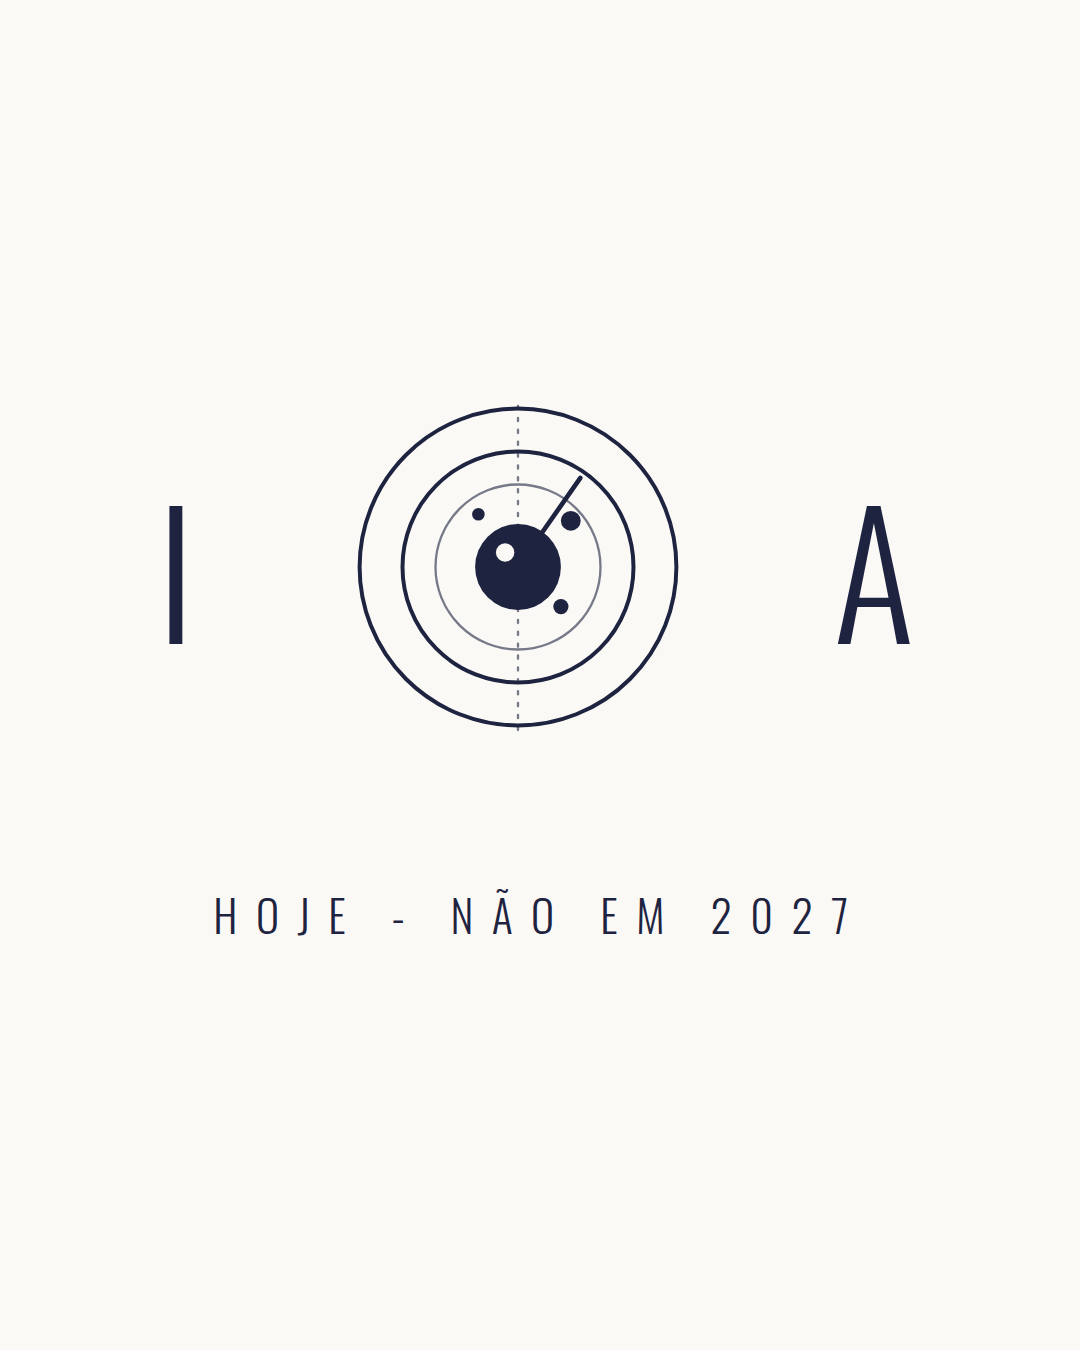
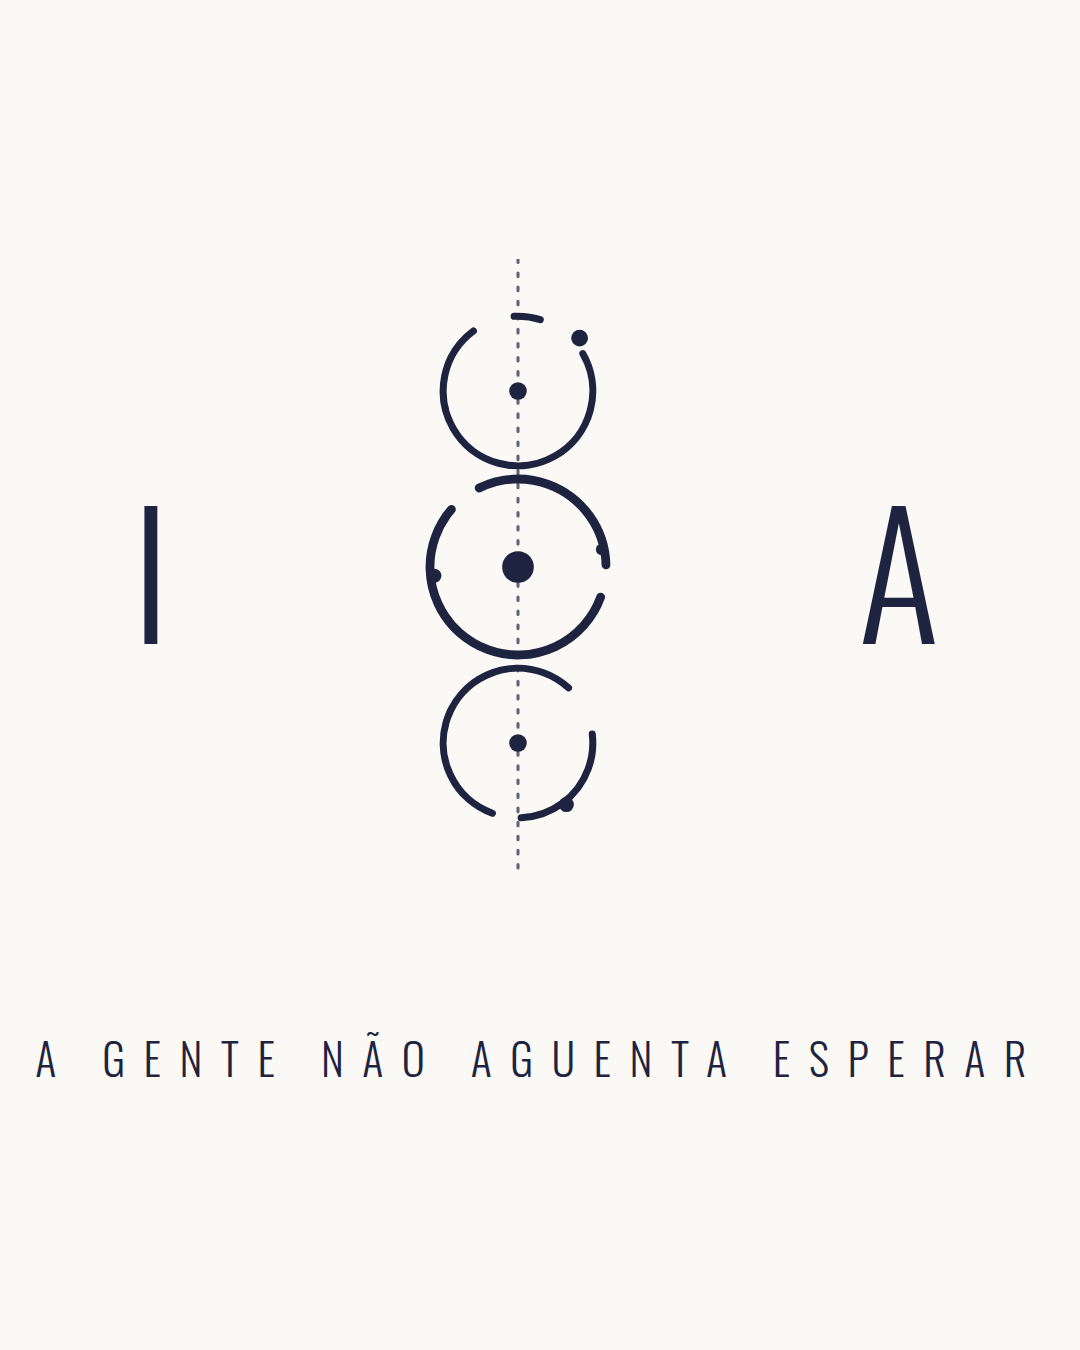
Mistério com símbolo de três círculos e story de revelação novo
Claude-Session: https://claude.ai/code/session_015WqfV53Y8EeDbiaJmrZRa2

diff --git a/docs/story-revelacao.html b/docs/story-revelacao.html
@@ -1,6 +1,6 @@
 <!doctype html>
 <html lang="pt-BR"><head><meta charset="utf-8"><meta name="viewport" content="width=device-width,initial-scale=1">
-<title>Irisa · Mistério</title>
+<title>Irisa · Revelação</title>
 <link rel="stylesheet" href="https://fonts.googleapis.com/css2?family=Urbanist:wght@500;600&family=Oswald:wght@300;400;500;700&family=Space+Grotesk:wght@400;500;700&display=swap">
 <style>
 
@@ -95,7 +95,7 @@ nav.top.solid .mark::before{background:var(--night2)}
 @media(max-width:900px){.split{grid-template-columns:1fr}.split.rev>:first-child{order:0}}
 .split .txt{display:flex;flex-direction:column;gap:22px}
 .showcase{display:flex;justify-content:center;position:relative}
-.showcase .halo-off{position:absolute;width:min(420px,90vw);height:min(420px,90vw);border-radius:50%;filter:blur(60px);opacity:.45;left:50%;top:50%;transform:translate(-50%,-50%);z-index:0}
+.showcase .halo{position:absolute;width:min(420px,90vw);height:min(420px,90vw);border-radius:50%;filter:blur(60px);opacity:.45;left:50%;top:50%;transform:translate(-50%,-50%);z-index:0}
 .showcase .cell{position:relative;z-index:1}
 .showcase .caption{display:none}
 .axes{display:grid;grid-template-columns:1fr 1fr;gap:12px}
@@ -368,10 +368,10 @@ footer .sos-line{width:100%;color:#fff;font-family:var(--display);text-transform
 html,body{margin:0;background:#0d1020}
 body{display:flex;flex-direction:column;align-items:center;gap:40px;padding:40px 0}
 .sl{position:relative;width:1080px;height:1350px;flex:none;overflow:hidden;background:var(--night);color:#fff;font-family:var(--body);display:flex;flex-direction:column;align-items:center}
-.halo-off{position:absolute;inset:-30%;pointer-events:none;filter:blur(60px)}
+.halo{position:absolute;inset:-30%;pointer-events:none;filter:blur(60px)}
 .h1{background:radial-gradient(30% 22% at 20% 25%,rgba(92,201,180,.38),transparent 70%),radial-gradient(28% 20% at 82% 70%,rgba(174,150,242,.36),transparent 70%)}
 .h2{background:radial-gradient(24% 18% at 75% 18%,rgba(244,115,111,.30),transparent 70%),radial-gradient(24% 18% at 25% 85%,rgba(240,202,117,.24),transparent 70%)}
-.grain-off{position:absolute;inset:0;opacity:.07;background-image:radial-gradient(rgba(255,255,255,.8) 1px,transparent 1px);background-size:4px 4px;mix-blend-mode:overlay;pointer-events:none}
+.grain{position:absolute;inset:0;opacity:.07;background-image:radial-gradient(rgba(255,255,255,.8) 1px,transparent 1px);background-size:4px 4px;mix-blend-mode:overlay;pointer-events:none}
 .c{text-align:center}
 .disp{font-family:var(--display);text-transform:uppercase;font-weight:500;letter-spacing:.04em;line-height:.95;margin:0}
 .rainbow{background:linear-gradient(90deg,var(--coral),var(--orange),var(--yellow),var(--turq),var(--blue),var(--lilac));-webkit-background-clip:text;background-clip:text;color:transparent}
@@ -390,7 +390,7 @@ body{display:flex;flex-direction:column;align-items:center;gap:40px;padding:40px
 .sosr span{font-size:24px;color:#C9CDDD}
 .ct{padding:16px 28px;border-radius:22px;font-family:var(--display);text-transform:uppercase;letter-spacing:.08em;font-size:38px;color:var(--night)}
 .fl{position:absolute;font-size:28px;padding:16px 26px;box-shadow:0 18px 40px -14px rgba(0,0,0,.55);rotate:var(--r)}
-#c3 svg.radar{width:220px!important;height:220px!important;max-width:none!important;display:block;position:static!important;transform:none!important;opacity:1!important}
+#c3 svg.radar{width:340px!important;height:340px!important;max-width:none!important;display:block;position:static!important;transform:none!important;opacity:1!important}
 .bub{max-width:760px;padding:30px 38px;border-radius:44px;font-size:42px;line-height:1.3}
 .bub.me{align-self:flex-end;background:var(--turq);color:var(--night);border-bottom-right-radius:12px}
 .bub.them{align-self:flex-start;background:rgba(255,255,255,.1);border:2px solid rgba(255,255,255,.14);color:#fff;border-bottom-left-radius:12px}
@@ -417,30 +417,20 @@ body{display:flex;flex-direction:column;align-items:center;gap:40px;padding:40px
 .two p{margin:0;font-size:32px;line-height:1.35;color:#D5D8E4}
 .slam{font-family:var(--display);text-transform:uppercase;font-weight:500;font-size:150px;line-height:1;letter-spacing:.03em}
 
-.sl{height:1350px!important}
-#c3 svg.radar{width:220px!important;height:220px!important}
-.linkzone{display:none;position:absolute;left:170px;right:170px;top:1600px;height:190px;border-radius:40px;border:4px dashed rgba(255,255,255,.22)}
+.sl{height:1920px!important}
+#c3 svg.radar{width:400px!important;height:400px!important}
+.linkzone{position:absolute;left:170px;right:170px;top:1600px;height:190px;border-radius:40px;border:4px dashed rgba(255,255,255,.22)}
 </style>
 </head>
 <body>
-<section class="sl" id="c3" style="justify-content:center;gap:0;background:#FAF9F6;color:#1E2340">
-  <div style="display:flex;align-items:center;justify-content:center;gap:120px;width:100%">
-    <span style="font-family:var(--display);font-weight:300;font-size:170px;line-height:1;letter-spacing:.05em">I</span>
-    <svg viewBox="0 0 100 140" width="440" height="616" fill="none" stroke="#1E2340" stroke-width="1.6" stroke-linecap="round" stroke-linejoin="round">
-      <line x1="50" y1="0" x2="50" y2="140" stroke-dasharray="0.8 2.4" stroke-width=".7" opacity=".7"/>
-      <circle cx="50" cy="30" r="17" stroke-dasharray="78 10 6 13" transform="rotate(-30 50 30)"/>
-      <circle cx="50" cy="70" r="20" stroke-dasharray="70 8 40 8" transform="rotate(20 50 70)" stroke-width="2"/>
-      <circle cx="50" cy="110" r="17" stroke-dasharray="60 12 28 7" transform="rotate(110 50 110)"/>
-      <circle cx="50" cy="30" r="2" fill="#1E2340" stroke="none"/>
-      <circle cx="50" cy="70" r="3.6" fill="#1E2340" stroke="none"/>
-      <circle cx="50" cy="110" r="2" fill="#1E2340" stroke="none"/>
-      <circle cx="64" cy="18" r="1.9" fill="#1E2340" stroke="none"/>
-      <circle cx="31" cy="72" r="1.6" fill="#1E2340" stroke="none"/>
-      <circle cx="69" cy="66" r="1.3" fill="#1E2340" stroke="none"/>
-      <circle cx="61" cy="124" r="1.7" fill="#1E2340" stroke="none"/>
-    </svg>
-    <span style="font-family:var(--display);font-weight:300;font-size:170px;line-height:1;letter-spacing:.05em">A</span>
-  </div>
-  <div style="margin-top:150px;font-family:var(--display);font-weight:300;font-size:44px;letter-spacing:.42em;text-transform:uppercase">A gente não aguenta esperar</div>
+<section class="sl" id="c3" style="justify-content:flex-start;gap:0;padding-top:260px"><div class="halo h1"></div><div class="halo h2"></div><div class="grain"></div>
+  <div class="small c" style="color:#C9CDDD">spoiler</div>
+  <p class="disp c" style="font-size:118px;font-weight:300;letter-spacing:.05em;margin-top:30px;line-height:1">Não é turnê.<br><span class="rainbow" style="font-weight:500">É a Irisa.</span></p>
+  <div style="width:340px;height:340px;margin:80px 0 60px"><svg class="radar radarbig" aria-hidden="true" xmlns="http://www.w3.org/2000/svg" viewBox="0 0 100 100">
+    
+    <g transform="translate(50 50) scale(1) translate(-50 -50)"><path d="M 50.00 2.00 A 48 48 0 0 1 55.53 2.32 L 54.03 15.23 A 35 35 0 0 0 50.00 15.00 Z" fill="#f4736f"/><path d="M 53.14 2.10 A 48 48 0 0 1 58.64 2.78 L 56.30 15.57 A 35 35 0 0 0 52.29 15.07 Z" fill="#f4766e"/><path d="M 56.27 2.41 A 48 48 0 0 1 61.71 3.45 L 58.54 16.06 A 35 35 0 0 0 54.57 15.30 Z" fill="#f4796d"/><path d="M 59.36 2.92 A 48 48 0 0 1 64.73 4.31 L 60.74 16.69 A 35 35 0 0 0 56.83 15.67 Z" fill="#f47c6c"/><path d="M 62.42 3.64 A 48 48 0 0 1 67.68 5.38 L 62.89 17.46 A 35 35 0 0 0 59.06 16.19 Z" fill="#f47f6b"/><path d="M 65.43 4.55 A 48 48 0 0 1 70.56 6.63 L 64.99 18.37 A 35 35 0 0 0 61.25 16.86 Z" fill="#f48269"/><path d="M 68.37 5.65 A 48 48 0 0 1 73.35 8.06 L 67.03 19.42 A 35 35 0 0 0 63.39 17.66 Z" fill="#f48568"/><path d="M 71.23 6.95 A 48 48 0 0 1 76.05 9.68 L 68.99 20.60 A 35 35 0 0 0 65.48 18.61 Z" fill="#f48867"/><path d="M 74.00 8.43 A 48 48 0 0 1 78.63 11.47 L 70.88 21.91 A 35 35 0 0 0 67.50 19.69 Z" fill="#f58c66"/><path d="M 76.67 10.09 A 48 48 0 0 1 81.09 13.43 L 72.67 23.33 A 35 35 0 0 0 69.44 20.90 Z" fill="#f58f65"/><path d="M 79.22 11.92 A 48 48 0 0 1 83.41 15.54 L 74.36 24.87 A 35 35 0 0 0 71.31 22.23 Z" fill="#f59264"/><path d="M 81.65 13.91 A 48 48 0 0 1 85.60 17.80 L 75.95 26.52 A 35 35 0 0 0 73.08 23.69 Z" fill="#f59563"/><path d="M 83.94 16.06 A 48 48 0 0 1 87.62 20.19 L 77.43 28.27 A 35 35 0 0 0 74.75 25.25 Z" fill="#f59862"/><path d="M 86.09 18.35 A 48 48 0 0 1 89.49 22.72 L 78.80 30.11 A 35 35 0 0 0 76.31 26.92 Z" fill="#f59b60"/><path d="M 88.08 20.78 A 48 48 0 0 1 91.19 25.36 L 80.04 32.03 A 35 35 0 0 0 77.77 28.69 Z" fill="#f59e5f"/><path d="M 89.91 23.33 A 48 48 0 0 1 92.72 28.11 L 81.15 34.04 A 35 35 0 0 0 79.10 30.56 Z" fill="#f5a15e"/><path d="M 91.57 26.00 A 48 48 0 0 1 94.06 30.95 L 82.12 36.11 A 35 35 0 0 0 80.31 32.50 Z" fill="#f5a45d"/><path d="M 93.05 28.77 A 48 48 0 0 1 95.21 33.87 L 82.96 38.24 A 35 35 0 0 0 81.39 34.52 Z" fill="#f5a65f"/><path d="M 94.35 31.63 A 48 48 0 0 1 96.17 36.86 L 83.66 40.42 A 35 35 0 0 0 82.34 36.61 Z" fill="#f4a960"/><path d="M 95.45 34.57 A 48 48 0 0 1 96.93 39.91 L 84.22 42.64 A 35 35 0 0 0 83.14 38.75 Z" fill="#f4ab62"/><path d="M 96.36 37.58 A 48 48 0 0 1 97.49 43.00 L 84.63 44.90 A 35 35 0 0 0 83.81 40.94 Z" fill="#f4ae63"/><path d="M 97.08 40.64 A 48 48 0 0 1 97.84 46.12 L 84.89 47.17 A 35 35 0 0 0 84.33 43.17 Z" fill="#f3b065"/><path d="M 97.59 43.73 A 48 48 0 0 1 97.99 49.26 L 85.00 49.46 A 35 35 0 0 0 84.70 45.43 Z" fill="#f3b266"/><path d="M 97.90 46.86 A 48 48 0 0 1 97.94 52.40 L 84.96 51.75 A 35 35 0 0 0 84.93 47.71 Z" fill="#f3b568"/><path d="M 98.00 50.00 A 48 48 0 0 1 97.68 55.53 L 84.77 54.03 A 35 35 0 0 0 85.00 50.00 Z" fill="#f3b769"/><path d="M 97.90 53.14 A 48 48 0 0 1 97.22 58.64 L 84.43 56.30 A 35 35 0 0 0 84.93 52.29 Z" fill="#f2b96b"/><path d="M 97.59 56.27 A 48 48 0 0 1 96.55 61.71 L 83.94 58.54 A 35 35 0 0 0 84.70 54.57 Z" fill="#f2bc6c"/><path d="M 97.08 59.36 A 48 48 0 0 1 95.69 64.73 L 83.31 60.74 A 35 35 0 0 0 84.33 56.83 Z" fill="#f2be6e"/><path d="M 96.36 62.42 A 48 48 0 0 1 94.62 67.68 L 82.54 62.89 A 35 35 0 0 0 83.81 59.06 Z" fill="#f1c16f"/><path d="M 95.45 65.43 A 48 48 0 0 1 93.37 70.56 L 81.63 64.99 A 35 35 0 0 0 83.14 61.25 Z" fill="#f1c371"/><path d="M 94.35 68.37 A 48 48 0 0 1 91.94 73.35 L 80.58 67.03 A 35 35 0 0 0 82.34 63.39 Z" fill="#f1c572"/><path d="M 93.05 71.23 A 48 48 0 0 1 90.32 76.05 L 79.40 68.99 A 35 35 0 0 0 81.39 65.48 Z" fill="#f0c874"/><path d="M 91.57 74.00 A 48 48 0 0 1 88.53 78.63 L 78.09 70.88 A 35 35 0 0 0 80.31 67.50 Z" fill="#f0ca75"/><path d="M 89.91 76.67 A 48 48 0 0 1 86.57 81.09 L 76.67 72.67 A 35 35 0 0 0 79.10 69.44 Z" fill="#e7ca79"/><path d="M 88.08 79.22 A 48 48 0 0 1 84.46 83.41 L 75.13 74.36 A 35 35 0 0 0 77.77 71.31 Z" fill="#deca7d"/><path d="M 86.09 81.65 A 48 48 0 0 1 82.20 85.60 L 73.48 75.95 A 35 35 0 0 0 76.31 73.08 Z" fill="#d4ca81"/><path d="M 83.94 83.94 A 48 48 0 0 1 79.81 87.62 L 71.73 77.43 A 35 35 0 0 0 74.75 74.75 Z" fill="#cbca85"/><path d="M 81.65 86.09 A 48 48 0 0 1 77.28 89.49 L 69.89 78.80 A 35 35 0 0 0 73.08 76.31 Z" fill="#c2ca89"/><path d="M 79.22 88.08 A 48 48 0 0 1 74.64 91.19 L 67.97 80.04 A 35 35 0 0 0 71.31 77.77 Z" fill="#b9ca8d"/><path d="M 76.67 89.91 A 48 48 0 0 1 71.89 92.72 L 65.96 81.15 A 35 35 0 0 0 69.44 79.10 Z" fill="#afca91"/><path d="M 74.00 91.57 A 48 48 0 0 1 69.05 94.06 L 63.89 82.12 A 35 35 0 0 0 67.50 80.31 Z" fill="#a6ca95"/><path d="M 71.23 93.05 A 48 48 0 0 1 66.13 95.21 L 61.76 82.96 A 35 35 0 0 0 65.48 81.39 Z" fill="#9dc998"/><path d="M 68.37 94.35 A 48 48 0 0 1 63.14 96.17 L 59.58 83.66 A 35 35 0 0 0 63.39 82.34 Z" fill="#94c99c"/><path d="M 65.43 95.45 A 48 48 0 0 1 60.09 96.93 L 57.36 84.22 A 35 35 0 0 0 61.25 83.14 Z" fill="#8ac9a0"/><path d="M 62.42 96.36 A 48 48 0 0 1 57.00 97.49 L 55.10 84.63 A 35 35 0 0 0 59.06 83.81 Z" fill="#81c9a4"/><path d="M 59.36 97.08 A 48 48 0 0 1 53.88 97.84 L 52.83 84.89 A 35 35 0 0 0 56.83 84.33 Z" fill="#78c9a8"/><path d="M 56.27 97.59 A 48 48 0 0 1 50.74 97.99 L 50.54 85.00 A 35 35 0 0 0 54.57 84.70 Z" fill="#6fc9ac"/><path d="M 53.14 97.90 A 48 48 0 0 1 47.60 97.94 L 48.25 84.96 A 35 35 0 0 0 52.29 84.93 Z" fill="#65c9b0"/><path d="M 50.00 98.00 A 48 48 0 0 1 44.47 97.68 L 45.97 84.77 A 35 35 0 0 0 50.00 85.00 Z" fill="#5cc9b4"/><path d="M 46.86 97.90 A 48 48 0 0 1 41.36 97.22 L 43.70 84.43 A 35 35 0 0 0 47.71 84.93 Z" fill="#5dc7b8"/><path d="M 43.73 97.59 A 48 48 0 0 1 38.29 96.55 L 41.46 83.94 A 35 35 0 0 0 45.43 84.70 Z" fill="#5ec5bb"/><path d="M 40.64 97.08 A 48 48 0 0 1 35.27 95.69 L 39.26 83.31 A 35 35 0 0 0 43.17 84.33 Z" fill="#5fc3bf"/><path d="M 37.58 96.36 A 48 48 0 0 1 32.32 94.62 L 37.11 82.54 A 35 35 0 0 0 40.94 83.81 Z" fill="#60c1c3"/><path d="M 34.57 95.45 A 48 48 0 0 1 29.44 93.37 L 35.01 81.63 A 35 35 0 0 0 38.75 83.14 Z" fill="#60bfc6"/><path d="M 31.63 94.35 A 48 48 0 0 1 26.65 91.94 L 32.97 80.58 A 35 35 0 0 0 36.61 82.34 Z" fill="#61bdca"/><path d="M 28.77 93.05 A 48 48 0 0 1 23.95 90.32 L 31.01 79.40 A 35 35 0 0 0 34.52 81.39 Z" fill="#62bbcd"/><path d="M 26.00 91.57 A 48 48 0 0 1 21.37 88.53 L 29.12 78.09 A 35 35 0 0 0 32.50 80.31 Z" fill="#63b9d1"/><path d="M 23.33 89.91 A 48 48 0 0 1 18.91 86.57 L 27.33 76.67 A 35 35 0 0 0 30.56 79.10 Z" fill="#64b6d5"/><path d="M 20.78 88.08 A 48 48 0 0 1 16.59 84.46 L 25.64 75.13 A 35 35 0 0 0 28.69 77.77 Z" fill="#65b4d8"/><path d="M 18.35 86.09 A 48 48 0 0 1 14.40 82.20 L 24.05 73.48 A 35 35 0 0 0 26.92 76.31 Z" fill="#66b2dc"/><path d="M 16.06 83.94 A 48 48 0 0 1 12.38 79.81 L 22.57 71.73 A 35 35 0 0 0 25.25 74.75 Z" fill="#67b0e0"/><path d="M 13.91 81.65 A 48 48 0 0 1 10.51 77.28 L 21.20 69.89 A 35 35 0 0 0 23.69 73.08 Z" fill="#67aee3"/><path d="M 11.92 79.22 A 48 48 0 0 1 8.81 74.64 L 19.96 67.97 A 35 35 0 0 0 22.23 71.31 Z" fill="#68ace7"/><path d="M 10.09 76.67 A 48 48 0 0 1 7.28 71.89 L 18.85 65.96 A 35 35 0 0 0 20.90 69.44 Z" fill="#69aaea"/><path d="M 8.43 74.00 A 48 48 0 0 1 5.94 69.05 L 17.88 63.89 A 35 35 0 0 0 19.69 67.50 Z" fill="#6aa8ee"/><path d="M 6.95 71.23 A 48 48 0 0 1 4.79 66.13 L 17.04 61.76 A 35 35 0 0 0 18.61 65.48 Z" fill="#6ea7ee"/><path d="M 5.65 68.37 A 48 48 0 0 1 3.83 63.14 L 16.34 59.58 A 35 35 0 0 0 17.66 63.39 Z" fill="#73a6ef"/><path d="M 4.55 65.43 A 48 48 0 0 1 3.07 60.09 L 15.78 57.36 A 35 35 0 0 0 16.86 61.25 Z" fill="#77a5ef"/><path d="M 3.64 62.42 A 48 48 0 0 1 2.51 57.00 L 15.37 55.10 A 35 35 0 0 0 16.19 59.06 Z" fill="#7ba4ef"/><path d="M 2.92 59.36 A 48 48 0 0 1 2.16 53.88 L 15.11 52.83 A 35 35 0 0 0 15.67 56.83 Z" fill="#7fa2ef"/><path d="M 2.41 56.27 A 48 48 0 0 1 2.01 50.74 L 15.00 50.54 A 35 35 0 0 0 15.30 54.57 Z" fill="#84a1f0"/><path d="M 2.10 53.14 A 48 48 0 0 1 2.06 47.60 L 15.04 48.25 A 35 35 0 0 0 15.07 52.29 Z" fill="#88a0f0"/><path d="M 2.00 50.00 A 48 48 0 0 1 2.32 44.47 L 15.23 45.97 A 35 35 0 0 0 15.00 50.00 Z" fill="#8c9ff0"/><path d="M 2.10 46.86 A 48 48 0 0 1 2.78 41.36 L 15.57 43.70 A 35 35 0 0 0 15.07 47.71 Z" fill="#909ef0"/><path d="M 2.41 43.73 A 48 48 0 0 1 3.45 38.29 L 16.06 41.46 A 35 35 0 0 0 15.30 45.43 Z" fill="#959df1"/><path d="M 2.92 40.64 A 48 48 0 0 1 4.31 35.27 L 16.69 39.26 A 35 35 0 0 0 15.67 43.17 Z" fill="#999cf1"/><path d="M 3.64 37.58 A 48 48 0 0 1 5.38 32.32 L 17.46 37.11 A 35 35 0 0 0 16.19 40.94 Z" fill="#9d9bf1"/><path d="M 4.55 34.57 A 48 48 0 0 1 6.63 29.44 L 18.37 35.01 A 35 35 0 0 0 16.86 38.75 Z" fill="#a199f1"/><path d="M 5.65 31.63 A 48 48 0 0 1 8.06 26.65 L 19.42 32.97 A 35 35 0 0 0 17.66 36.61 Z" fill="#a698f2"/><path d="M 6.95 28.77 A 48 48 0 0 1 9.68 23.95 L 20.60 31.01 A 35 35 0 0 0 18.61 34.52 Z" fill="#aa97f2"/><path d="M 8.43 26.00 A 48 48 0 0 1 11.47 21.37 L 21.91 29.12 A 35 35 0 0 0 19.69 32.50 Z" fill="#ae96f2"/><path d="M 10.09 23.33 A 48 48 0 0 1 13.43 18.91 L 23.33 27.33 A 35 35 0 0 0 20.90 30.56 Z" fill="#b294ea"/><path d="M 11.92 20.78 A 48 48 0 0 1 15.54 16.59 L 24.87 25.64 A 35 35 0 0 0 22.23 28.69 Z" fill="#b792e2"/><path d="M 13.91 18.35 A 48 48 0 0 1 17.80 14.40 L 26.52 24.05 A 35 35 0 0 0 23.69 26.92 Z" fill="#bb8fd9"/><path d="M 16.06 16.06 A 48 48 0 0 1 20.19 12.38 L 28.27 22.57 A 35 35 0 0 0 25.25 25.25 Z" fill="#c08dd1"/><path d="M 18.35 13.91 A 48 48 0 0 1 22.72 10.51 L 30.11 21.20 A 35 35 0 0 0 26.92 23.69 Z" fill="#c48bc9"/><path d="M 20.78 11.92 A 48 48 0 0 1 25.36 8.81 L 32.03 19.96 A 35 35 0 0 0 28.69 22.23 Z" fill="#c889c1"/><path d="M 23.33 10.09 A 48 48 0 0 1 28.11 7.28 L 34.04 18.85 A 35 35 0 0 0 30.56 20.90 Z" fill="#cd87b9"/><path d="M 26.00 8.43 A 48 48 0 0 1 30.95 5.94 L 36.11 17.88 A 35 35 0 0 0 32.50 19.69 Z" fill="#d185b1"/><path d="M 28.77 6.95 A 48 48 0 0 1 33.87 4.79 L 38.24 17.04 A 35 35 0 0 0 34.52 18.61 Z" fill="#d582a8"/><path d="M 31.63 5.65 A 48 48 0 0 1 36.86 3.83 L 40.42 16.34 A 35 35 0 0 0 36.61 17.66 Z" fill="#da80a0"/><path d="M 34.57 4.55 A 48 48 0 0 1 39.91 3.07 L 42.64 15.78 A 35 35 0 0 0 38.75 16.86 Z" fill="#de7e98"/><path d="M 37.58 3.64 A 48 48 0 0 1 43.00 2.51 L 44.90 15.37 A 35 35 0 0 0 40.94 16.19 Z" fill="#e37c90"/><path d="M 40.64 2.92 A 48 48 0 0 1 46.12 2.16 L 47.17 15.11 A 35 35 0 0 0 43.17 15.67 Z" fill="#e77a88"/><path d="M 43.73 2.41 A 48 48 0 0 1 49.26 2.01 L 49.46 15.00 A 35 35 0 0 0 45.43 15.30 Z" fill="#eb777f"/><path d="M 46.86 2.10 A 48 48 0 0 1 52.40 2.06 L 51.75 15.04 A 35 35 0 0 0 47.71 15.07 Z" fill="#f07577"/><defs><linearGradient id="sw101" gradientUnits="userSpaceOnUse" x1="21.42" y1="33.50" x2="68.93" y2="22.97"><stop offset="0%" stop-color="#5CC9B4" stop-opacity="0"/><stop offset="100%" stop-color="#5CC9B4" stop-opacity="0.5"/></linearGradient></defs><g class="sweep"><animateTransform class="giro" attributeName="transform" type="rotate" from="0 50 50" to="360 50 50" dur="5s" repeatCount="indefinite" begin="indefinite"/><path d="M 21.42 33.50 A 33 33 0 0 1 68.93 22.97 L 50.00 50.00 A 0 0 0 0 0 50.00 50.00 Z" fill="url(#sw101)"/><path d="M 50 50 L 68.93 22.97" stroke="#5CC9B4" stroke-width="1.6" stroke-linecap="round" stroke-opacity="0.75"/></g><circle cx="50" cy="50" r="25" fill="none" stroke="#5CC9B4" stroke-width="0.8" stroke-opacity="0.35"/><circle cx="66" cy="36" r="6.510000000000001" fill="#5CC9B4" fill-opacity="0.14"/><circle class="blip" cx="66" cy="36" r="3.1" fill="#5CC9B4"/><circle cx="63" cy="62" r="5.04" fill="#F4736F" fill-opacity="0.14"/><circle class="blip b2" cx="63" cy="62" r="2.4" fill="#F4736F"/><circle cx="38" cy="34" r="3.9899999999999998" fill="#5CC9B4" fill-opacity="0.14"/><circle class="blip b3" cx="38" cy="34" r="1.9" fill="#5CC9B4"/><circle cx="50" cy="50" r="13" fill="#161B2E"/><circle cx="46.1" cy="45.6" r="2.86" fill="#FFFFFF"/></g></svg></div>
+  <p class="body c" style="font-size:44px;color:#fff;max-width:900px">O mapa dos lugares onde a gente é <b style="color:var(--turq);white-space:nowrap">bem-vinde</b>, feito por nós.</p>
+  <p class="body c" style="font-size:36px;color:#C9CDDD;max-width:860px;margin-top:34px">Anônimo, gratuito, em fase de testes no Android.<br>Não deu pra esperar 2027.</p>
+  <div class="linkzone"></div>
 </section>
 </body></html>

diff --git a/docs/story-misterio.html b/docs/story-misterio.html
@@ -424,22 +424,23 @@ body{display:flex;flex-direction:column;align-items:center;gap:40px;padding:40px
 </head>
 <body>
 <section class="sl" id="c3" style="justify-content:center;gap:0;background:#FAF9F6;color:#1E2340">
-  <div style="display:flex;align-items:center;justify-content:center;gap:150px;width:100%">
+  <div style="display:flex;align-items:center;justify-content:center;gap:120px;width:100%">
     <span style="font-family:var(--display);font-weight:300;font-size:170px;line-height:1;letter-spacing:.05em">I</span>
-    <svg viewBox="0 0 100 100" width="330" height="330" fill="none" stroke="#1E2340" stroke-width="1.2" stroke-linecap="round">
-      <line x1="50" y1="-6" x2="50" y2="106" stroke-dasharray="1 2.6" stroke-width=".7" opacity=".6"/>
-      <circle cx="50" cy="50" r="48"/>
-      <circle cx="50" cy="50" r="35"/>
-      <circle cx="50" cy="50" r="25" stroke-width=".7" opacity=".6"/>
-      <line x1="50" y1="50" x2="68.9" y2="23" stroke-width="1.4"/>
-      <circle cx="66" cy="36" r="3" fill="#1E2340" stroke="none"/>
-      <circle cx="63" cy="62" r="2.3" fill="#1E2340" stroke="none"/>
-      <circle cx="38" cy="34" r="1.9" fill="#1E2340" stroke="none"/>
-      <circle cx="50" cy="50" r="13" fill="#1E2340" stroke="none"/>
-      <circle cx="46.1" cy="45.6" r="2.8" fill="#FAF9F6" stroke="none"/>
+    <svg viewBox="0 0 100 140" width="440" height="616" fill="none" stroke="#1E2340" stroke-width="1.6" stroke-linecap="round" stroke-linejoin="round">
+      <line x1="50" y1="0" x2="50" y2="140" stroke-dasharray="0.8 2.4" stroke-width=".7" opacity=".7"/>
+      <circle cx="50" cy="30" r="17" stroke-dasharray="78 10 6 13" transform="rotate(-30 50 30)"/>
+      <circle cx="50" cy="70" r="20" stroke-dasharray="70 8 40 8" transform="rotate(20 50 70)" stroke-width="2"/>
+      <circle cx="50" cy="110" r="17" stroke-dasharray="60 12 28 7" transform="rotate(110 50 110)"/>
+      <circle cx="50" cy="30" r="2" fill="#1E2340" stroke="none"/>
+      <circle cx="50" cy="70" r="3.6" fill="#1E2340" stroke="none"/>
+      <circle cx="50" cy="110" r="2" fill="#1E2340" stroke="none"/>
+      <circle cx="64" cy="18" r="1.9" fill="#1E2340" stroke="none"/>
+      <circle cx="31" cy="72" r="1.6" fill="#1E2340" stroke="none"/>
+      <circle cx="69" cy="66" r="1.3" fill="#1E2340" stroke="none"/>
+      <circle cx="61" cy="124" r="1.7" fill="#1E2340" stroke="none"/>
     </svg>
     <span style="font-family:var(--display);font-weight:300;font-size:170px;line-height:1;letter-spacing:.05em">A</span>
   </div>
-  <div style="margin-top:150px;font-family:var(--display);font-weight:300;font-size:44px;letter-spacing:.42em;text-transform:uppercase">Quando você passa - hoje</div>
+  <div style="margin-top:150px;font-family:var(--display);font-weight:300;font-size:44px;letter-spacing:.42em;text-transform:uppercase">A gente não aguenta esperar</div>
 </section>
 </body></html>
